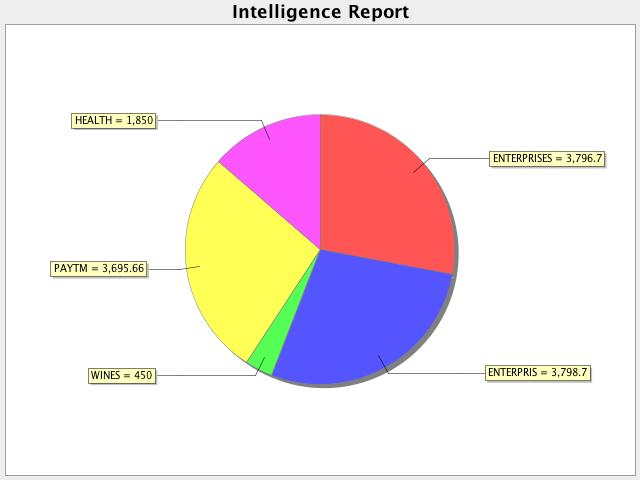
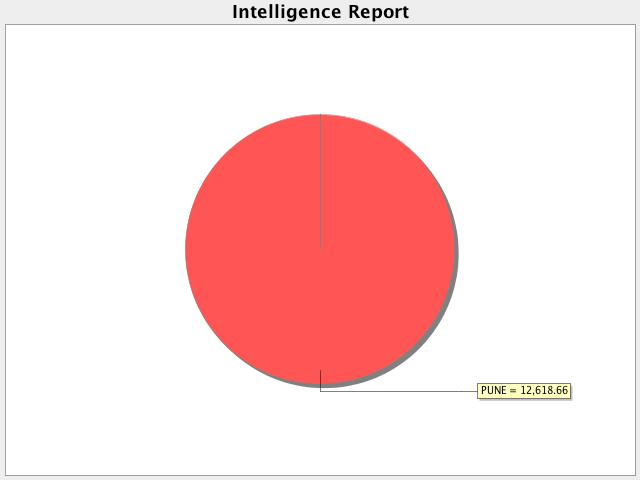
updated AI algorithm

diff --git a/src/main/java/com/billmartam/report/IntelligentReport.java b/src/main/java/com/billmartam/report/IntelligentReport.java
@@ -1,0 +1,153 @@
+package com.billmartam.report;
+
+import com.billmartam.util.Util;
+
+import java.util.*;
+
+/**
+ * Created by pp00344204 on 18/07/17.
+ */
+public class IntelligentReport {
+
+    private IntelligentReportNode root;
+
+    public IntelligentReport() {
+        root = new IntelligentReportNode();
+    }
+
+    public Map<String, Double> getReport(TransactionReport report) {
+        Map<String, Double> distinctKeyTotalReport = report.getDistinctKeyTotalReport();
+        Set<String> keys = distinctKeyTotalReport.keySet();
+
+        for (String key : keys) {
+            String[] words = key.split(" ");
+            for (String word : words) {
+                if (word.trim().length() > 2 && !Util.inIgnoreKeyList(word)) {
+                    insert(word, 0, root, distinctKeyTotalReport.get(key));
+                }
+            }
+        }
+
+        Map<String, Double> stringDoubleMap = printAllNodes(root, new ArrayList<>(), ' ', 0, new HashMap<>());
+        return stringDoubleMap;
+    }
+
+    private IntelligentReportNode insert(String data, int i, IntelligentReportNode root, double total) {
+        if (i < data.length()) {
+            char val = data.charAt(i);
+            if (root.getKeySet().contains(val)) {
+                insert(data, ++i, root.getNext(val), total);
+            } else {
+                IntelligentReportNode node = new IntelligentReportNode();
+                root.setPool(val, node);
+                insert(data, ++i, node, total);
+            }
+        } else {
+            root.isWord(true);
+            double prevTotal = root.getTotal() + total;
+            root.setTotal(prevTotal);
+            root.increaseCount();
+        }
+
+        return root;
+    }
+
+    private Map<String, Double> printAllNodes(IntelligentReportNode node, List<Character> data, Character key, int len, Map<String, Double> result) {
+
+        if (node.isWord()) {
+            data.add(key);
+            if (node.getCount() > 1) {
+                print(node, data,result);
+            }
+            data.remove(key);
+        }
+
+        if (node.getKeySet().size() == 0) {
+            data.remove(key);
+            return result;
+        }
+
+
+        /*int i = prevLen;
+        System.out.print(len);
+        while(i>0){
+            System.out.print("-");
+            i--;
+        }
+        for(Character character : characters){
+            System.out.print(character);
+        }
+        System.out.println();*/
+        Set<Character> characters = node.getKeySet();
+        int prevLen = len;
+        for (Character character : characters) {
+            if(prevLen == 0){
+                data.clear();
+            }else {
+                data.add(key);
+            }
+            printAllNodes(node.getNext(character), data, character, ++len, result);
+            data.remove(key);
+        }
+
+        return result;
+    }
+
+    private void print(IntelligentReportNode node, List<Character> data, Map<String, Double> result) {
+        String resultStr = "";
+        for (Character c : data) {
+            resultStr += c;
+        }
+        result.put(resultStr.trim(),node.getTotal());
+        /*resultStr += " " + node.getTotal();
+
+        System.out.println(resultStr.trim());*/
+    }
+
+    private class IntelligentReportNode {
+        Map<Character, IntelligentReportNode> pool;
+        boolean isWord;
+        double total;
+        int count;
+
+        public int getCount() {
+            return count;
+        }
+
+        public void increaseCount() {
+            ++count;
+        }
+
+        public IntelligentReportNode() {
+            pool = new HashMap<>();
+        }
+
+        public IntelligentReportNode getNext(Character key) {
+            return pool.get(key);
+        }
+
+        public Set getKeySet() {
+            return pool.keySet();
+        }
+
+        public boolean isWord() {
+            return isWord;
+        }
+
+        public void isWord(boolean word) {
+            isWord = word;
+        }
+
+        public double getTotal() {
+            return total;
+        }
+
+        public void setTotal(double total) {
+            this.total = total;
+        }
+
+        public void setPool(Character character, IntelligentReportNode node) {
+            pool.put(character, node);
+        }
+    }
+}

diff --git a/src/test/java/com/billmartam/report/IntelligentReportTest.java b/src/test/java/com/billmartam/report/IntelligentReportTest.java
@@ -1,0 +1,82 @@
+package com.billmartam.report;
+
+import com.billmartam.TImeComplexityTestCase;
+import com.billmartam.parser.*;
+import com.billmartam.pdf.Pdf;
+import com.billmartam.transaction.Transaction;
+import org.junit.Assert;
+import org.junit.Test;
+
+import java.util.ArrayList;
+import java.util.List;
+import java.util.Map;
+
+/**
+ * Created by pp00344204 on 18/07/17.
+ */
+public class IntelligentReportTest extends TImeComplexityTestCase{
+    @Test
+    public void testIntelligentReportInstance() throws Exception {
+        IntelligentReport report = new IntelligentReport();
+        Assert.assertNotNull(report);
+    }
+
+    @Test
+    public void testIntelligentReport() throws Exception {
+        List<Transaction> contents = new ArrayList<>();
+        contents.add(new Transaction("15/05/2017", "PAYTM APP              NOIDA", 100.00f));
+        contents.add(new Transaction("15/05/2017", "PAYTM APP              NOIDA", 100.00f));
+        contents.add(new Transaction("16/05/2017", "PAYTM MOBILE SOLUT, INR www.paytm.in", 100.00f));
+        contents.add(new Transaction("17/05/2017", "PAYTM MOBILE SOLUT INR www.paytm.in", 40.50f));
+        contents.add(new Transaction("18/05/2017", "PATANJALI              PUNE ", 760.00f));
+        contents.add(new Transaction("18/05/2017", "SHREE SAI ENTERPRISES  PUNE ", 760.00f));
+        contents.add(new Transaction("18/05/2017", "AMITA ENTERPRISES A P  PUNE", 760.00f));
+        contents.add(new Transaction("18/05/2017", "MITUL ENTERPRISES PVT  MUMBAI ", 760.00f));
+        contents.add(new Transaction("18/05/2017", "EMERGE              PUNE ", 760.00f));
+        contents.add(new Transaction("18/05/2017", "EMERGE              PUNE ", 760.00f));
+        contents.add(new Transaction("18/05/2017", "RACHIRA WINES ", 760.00f));
+        contents.add(new Transaction("18/05/2017", "RUCHIRA WINES", 760.00f));
+        TransactionReport transactionReport = new TransactionReport();
+        transactionReport.setContents(contents);
+
+        IntelligentReport report = new IntelligentReport();
+        Map<String, Double> processedReport = report.getReport(transactionReport);
+//        Assert.assertEquals(2,processedReport.size());
+    }
+
+    @Test
+    public void testIntelligentReportForHdfc() throws Exception {
+        Parser parser = new HdfcBillParser();
+        Pdf pdf = new Pdf();
+        pdf.setData(HdfcBillParserTest.raw);
+        TransactionReport report = parser.parse(pdf, false);
+
+        IntelligentReport intelligentReport = new IntelligentReport();
+        Map<String, Double> report1 = intelligentReport.getReport(report);
+        Assert.assertTrue(report1.size() == 6);
+    }
+
+    @Test
+    public void testIntelligentReportFoeCiti() throws Exception {
+        Parser parser = new CitiBillParser();
+        Pdf pdf = new Pdf();
+        pdf.setData(CitiBillParserTest.raw);
+        TransactionReport report = parser.parse(pdf, false);
+
+        IntelligentReport intelligentReport = new IntelligentReport();
+        Map<String, Double> report1 = intelligentReport.getReport(report);
+        Assert.assertTrue(report1.size() == 8);
+    }
+    @Test
+    public void testIntelligentReportFoeIcici() throws Exception {
+        Parser parser = new IciciBillParser();
+        Pdf pdf = new Pdf();
+        pdf.setData(IciciBillParserTest.raw);
+        TransactionReport report = parser.parse(pdf, false);
+
+        IntelligentReport intelligentReport = new IntelligentReport();
+        Map<String, Double> report1 = intelligentReport.getReport(report);
+        Assert.assertTrue(report1.size() == 1);
+    }
+
+}

diff --git a/src/test/java/com/billmartam/transaction/TransactionReportTest.java b/src/test/java/com/billmartam/transaction/TransactionReportTest.java
@@ -1,7 +1,9 @@
 package com.billmartam.transaction;
 
+import com.billmartam.TImeComplexityTestCase;
 import com.billmartam.parser.HdfcBillParser;
 import com.billmartam.parser.HdfcBillParserTest;
+import com.billmartam.parser.Parser;
 import com.billmartam.pdf.Pdf;
 import org.junit.Assert;
 import org.junit.Test;
@@ -14,7 +16,7 @@ import java.util.Map;
 /**
  * Created by pp00344204 on 19/06/17.
  */
-public class TransactionReportTest {
+public class TransactionReportTest extends TImeComplexityTestCase{
 
     @Test
     public void testtotalOfTransactionReport() {
@@ -142,5 +144,16 @@ public class TransactionReportTest {
 
         Map<String, Double> values = transactionReport.getArtificialDistinctKeyTotalReport();
         Assert.assertEquals(240.5, values.get("PAYTM").doubleValue(),0);
+    }
+
+    @Test
+    public void getArtificialDistinctKeyandtotatForHdfc() throws Exception {
+        Parser parser = new HdfcBillParser();
+        Pdf pdf = new Pdf();
+        pdf.setData(HdfcBillParserTest.raw);
+        TransactionReport report = parser.parse(pdf, false);
+
+        Map<String, Double> values = report.getArtificialDistinctKeyTotalReport();
+        Assert.assertTrue(values.size() == 5);
     }
 }

diff --git a/src/main/java/com/billmartam/report/TransactionReport.java b/src/main/java/com/billmartam/report/TransactionReport.java
@@ -114,6 +114,15 @@ public class TransactionReport implements Serializable{
     }
 
     public Map<String, Double> getArtificialDistinctKeyTotalReport() {
+//        return getArtificialDistinctKeyTotalReportFromKmpAlgo();
+        return getArtificialDistinctKeyTotalReportFromTrieDataStructure();
+    }
+
+    private Map<String, Double> getArtificialDistinctKeyTotalReportFromTrieDataStructure() {
+        return new IntelligentReport().getReport(this);
+    }
+
+    private Map<String, Double> getArtificialDistinctKeyTotalReportFromKmpAlgo() {
         Set keys = getKeys();
         TransactionSearch search = TransactionSearch.getSearchEngine(this);
         Map<String, TransactionReport> transactions = search.getIndividualSearchTransaction(Util.join(keys));
@@ -141,7 +150,6 @@ public class TransactionReport implements Serializable{
                 }
             }
         }
-
         return result;
     }
 

diff --git a/src/main/java/com/billmartam/util/Util.java b/src/main/java/com/billmartam/util/Util.java
@@ -70,12 +70,9 @@ public class Util {
 
     public static boolean inIgnoreKeyList(String result) {
         Set<String> keys = new HashSet<>();
-        keys.add("PUNE");
-        keys.add("MUMBAI");
         keys.add("INR");
         keys.add("PVT");
         keys.add("PV");
-        keys.add("NOIDA");
         keys.add("IN");
         keys.add("INDIA");
         return keys.contains(result.toUpperCase());

diff --git a/src/test/java/com/billmartam/util/UtilTest.java b/src/test/java/com/billmartam/util/UtilTest.java
@@ -85,7 +85,7 @@ public class UtilTest {
 
     @Test
     public void ignore_key_test() {
-        boolean result = Util.inIgnoreKeyList("PUNE");
+        boolean result = Util.inIgnoreKeyList("IN");
         Assert.assertTrue(result);
     }
 
